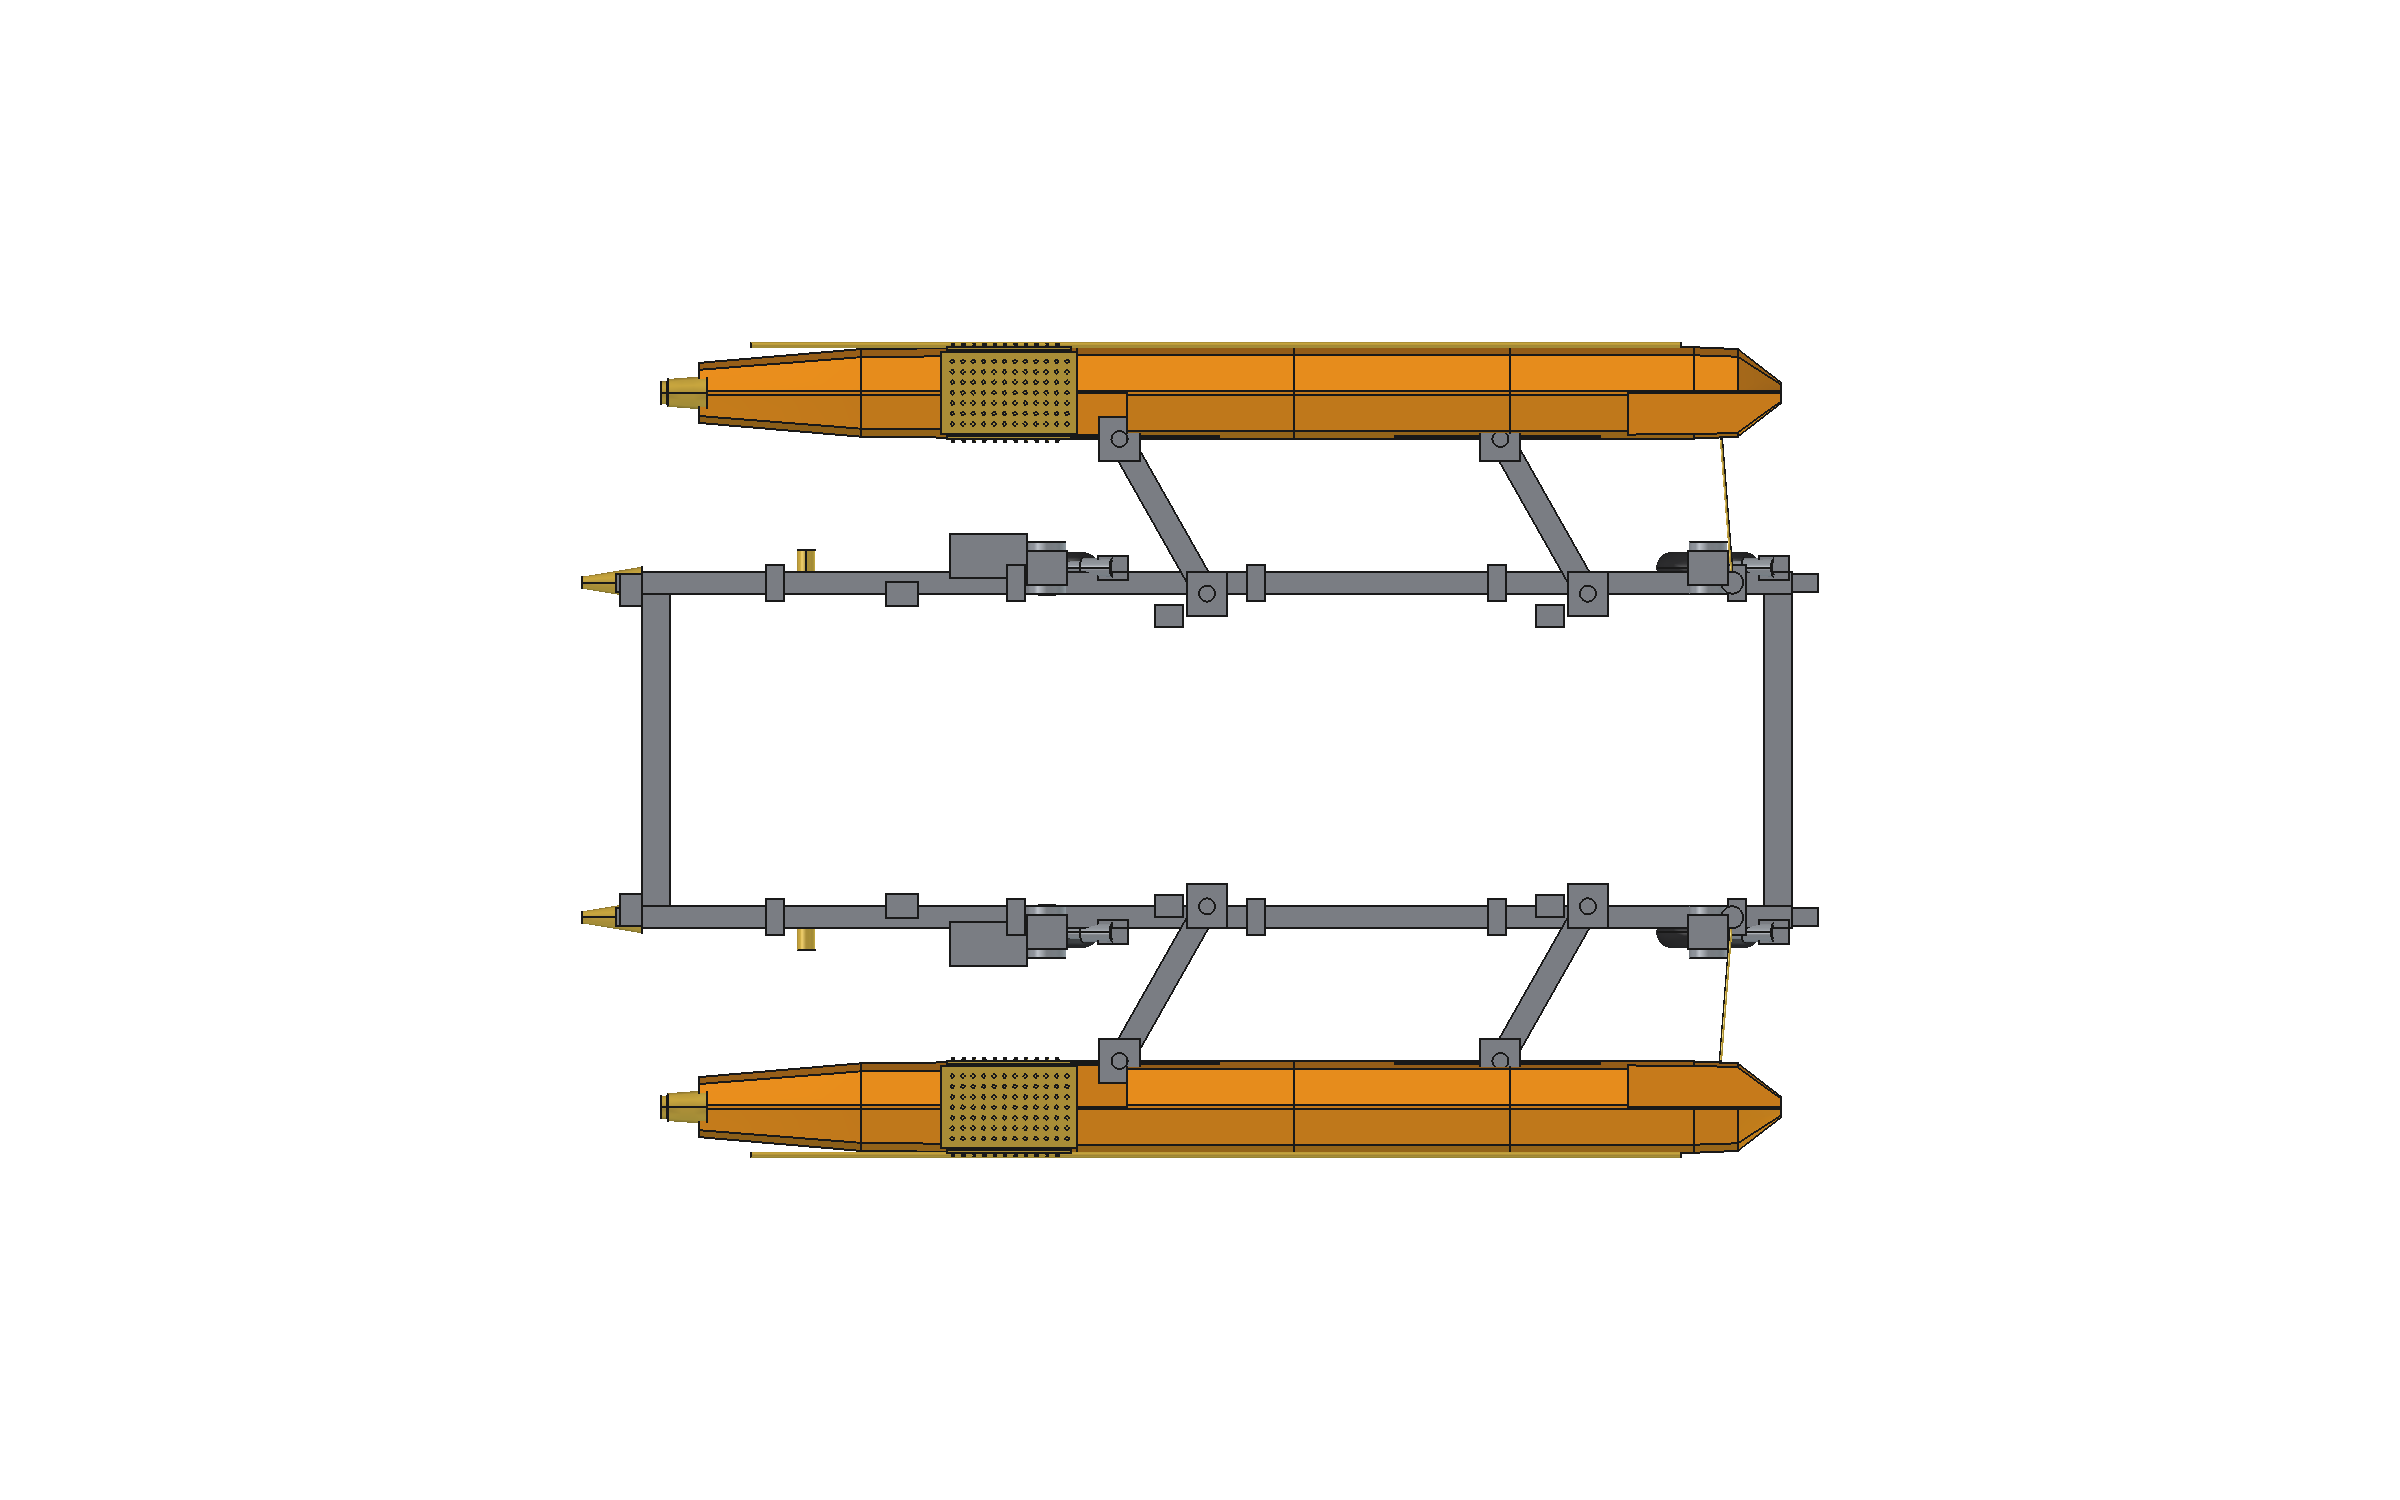
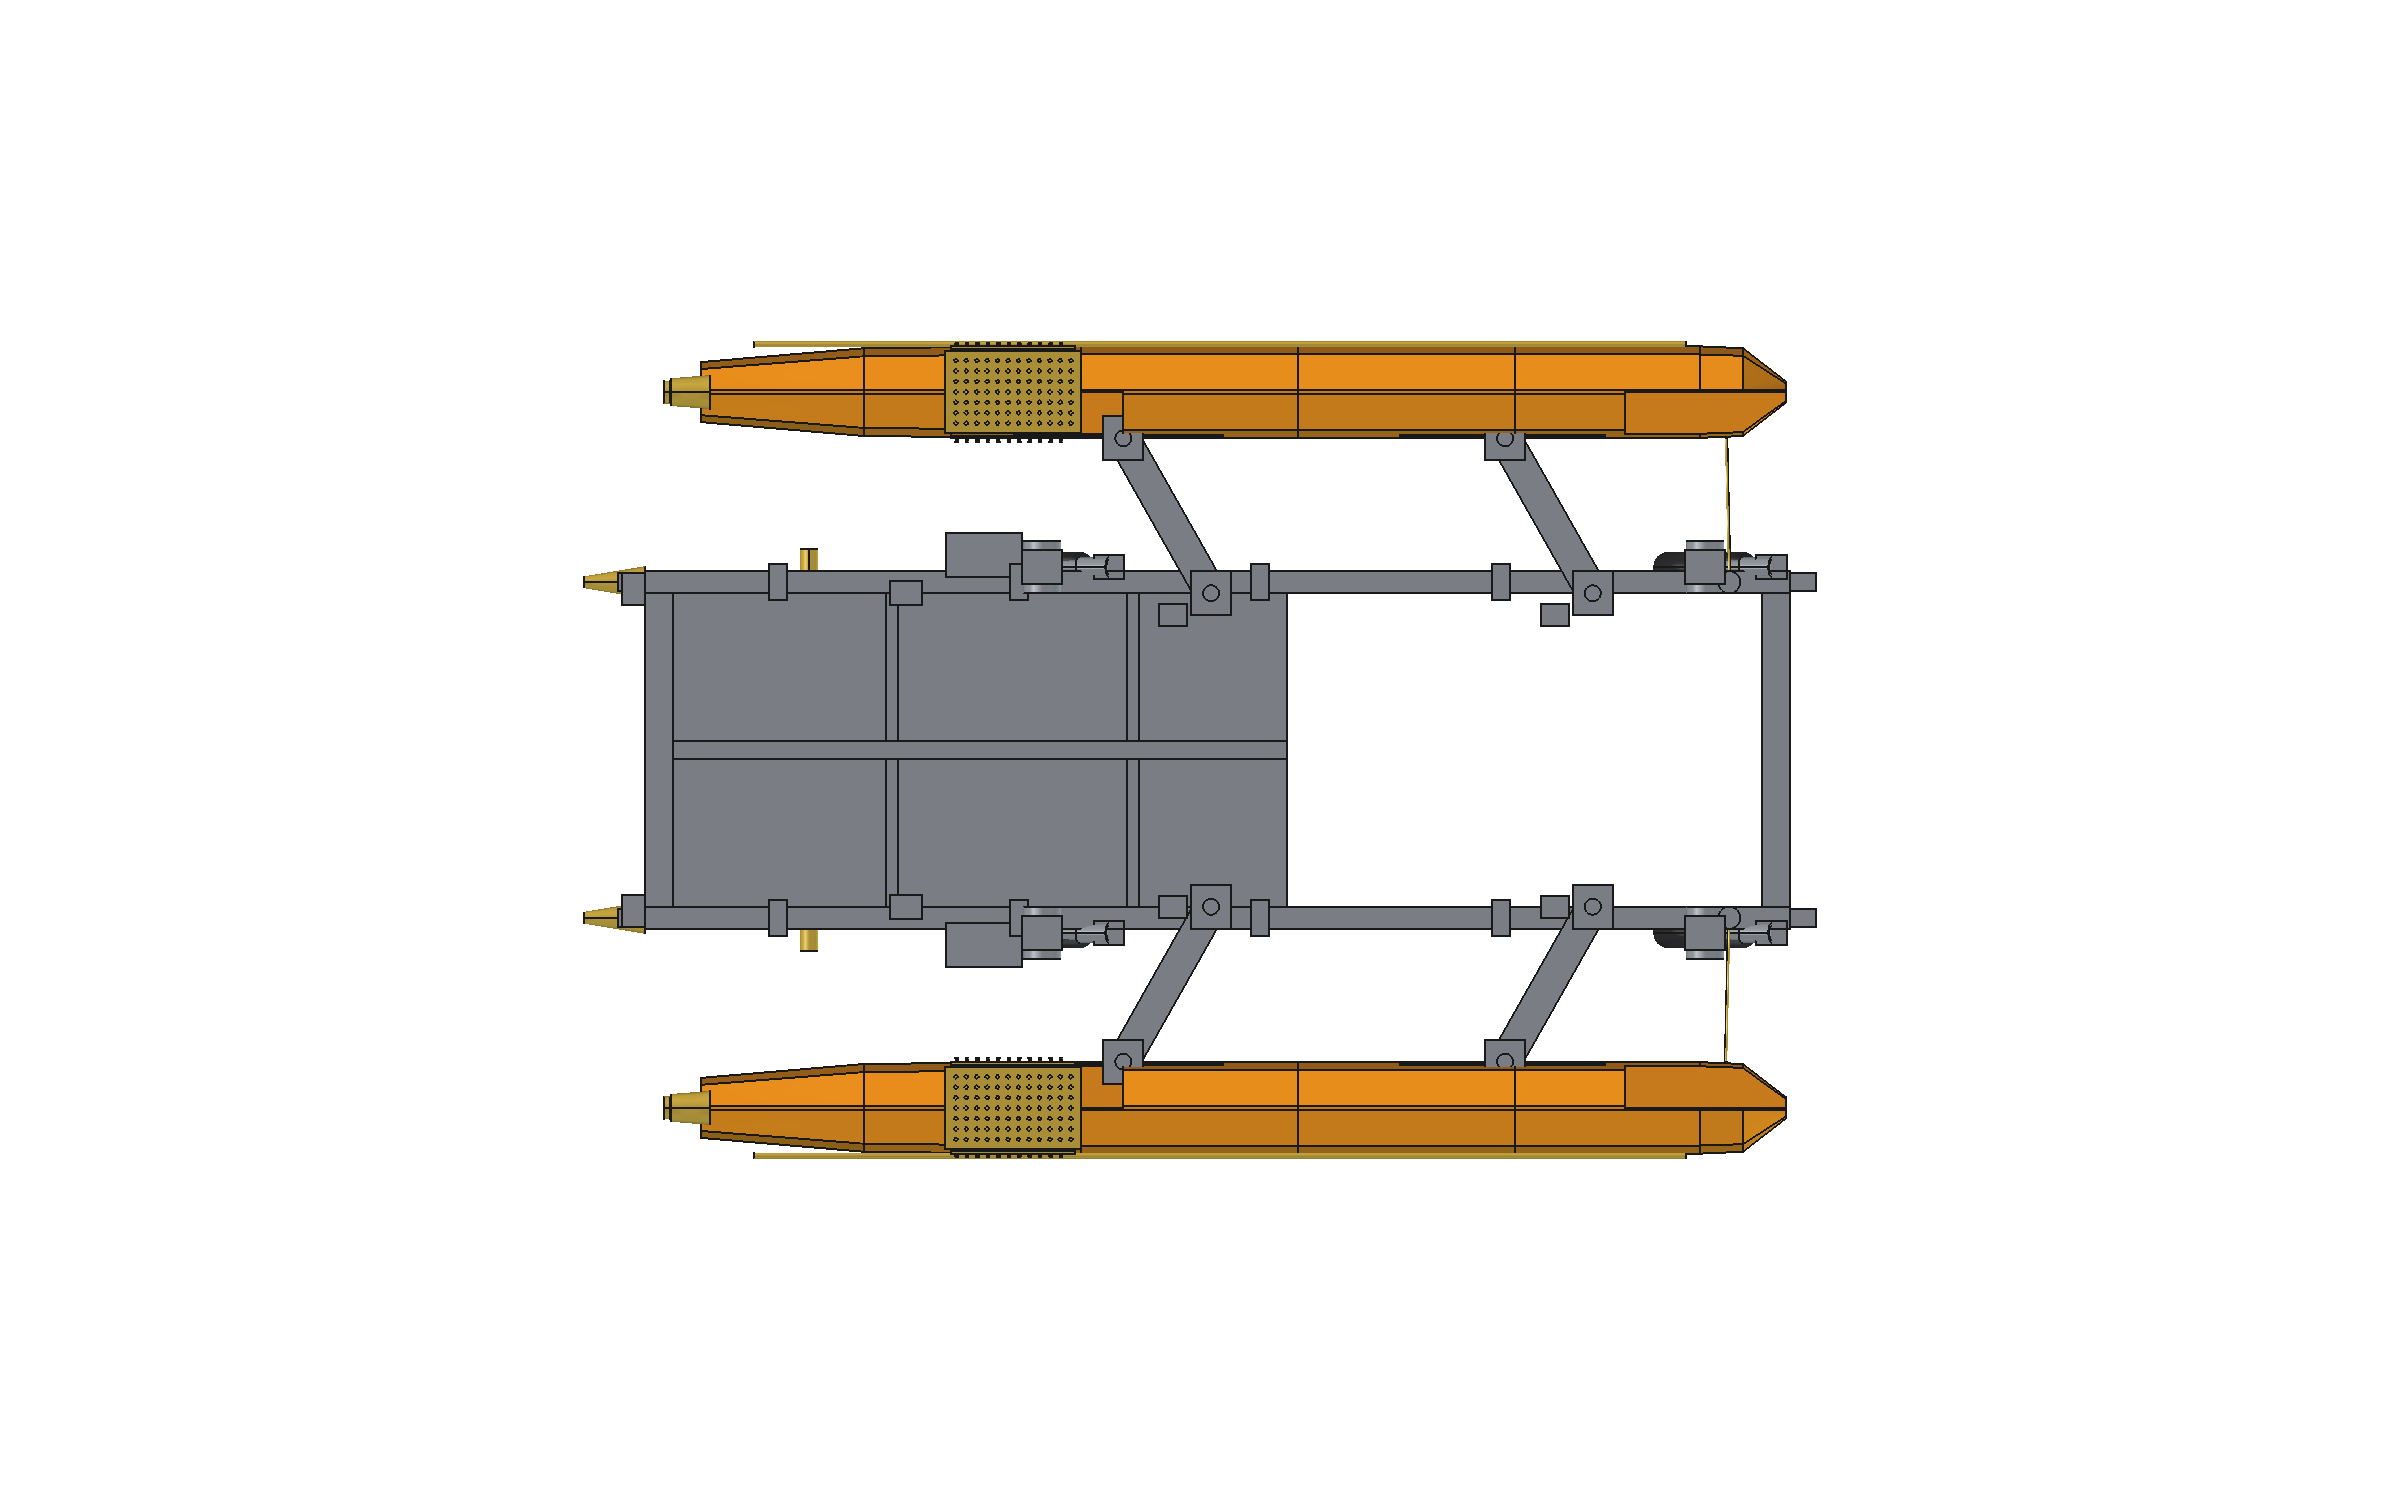
An aluminium deck on the frame, and a keel shoe on the boat
Asked for an aluminium bottom on the hangar doing two jobs: protecting
the hull underneath, and being a platform to walk on when undocked.  It
has to be two parts, and the reason is geometry rather than preference.

The frame has nothing below the hull.  The girders are at y +-835,
z 600..800 - above the stem and outboard of it - and every route from
there down to the keel is blocked.  Straight down at y 835 is the
docked float, z -110..590 from x 600 to 6000.  Inboard of that is the
stem, 1560 wide below z 600, whose face is at y 780 - exactly where the
float's inner face is, so there is no gap to thread through at all.
Forward of the float the bow goes full width: half-width 1081 at z 300
by x 5600.  What is left is 720 mm of a 5700 mm frame, at the stern,
and a 5 m cantilever off that is not structure.  Hanging it off the
floats is out because the floats move.

So: THE DECK, 3.2 x 1.78 m of 3 mm 5083 tread plate in two panels, on
the frame between the girders at z 800, with a centreline stringer so
neither panel cantilevers 890 mm off its girder.  Undocked it is the
platform, 760 mm above the dinghy's waterline; docked it lifts out,
because at z 800 between the girders is the inside of the boat.  76 kg.
The full frame length would be 134 - plate is the whole cost of a deck
- and 3.2 m is already more standing room than a tender needs.

And THE KEEL SHOE, 3 mm 5083 bolted flat on the stem's 1560 mm bottom
[…]

Changed region(s): [[0.25, 0.2147, 0.75, 0.7973], [0.2812, 0.2453, 0.3125, 0.276]]

diff --git a/freecad/params.py b/freecad/params.py
@@ -288,6 +288,83 @@ BEAM_H = 220                       # over the waterline, top flush under
                                    # the wing at 600
 
 
+# ---- THE HANGAR FLOOR ----
+# An aluminium floor on the frame, between the girders. Undocked it is
+# the deck people stand on; it is carried entirely by the frame and
+# never touches the floats, which move.
+#
+# It CANNOT also be the hull's bottom protection, and it is worth
+# writing down why so nobody tries again. The frame has no structure
+# below the keel: the girders sit at y +-835, z 600..800, which is
+# ABOVE the stem and OUTBOARD of it. Every route from there down to the
+# keel is blocked -
+#
+#   below z 600 the stem is 1560 wide, y +-780, and the float's inner
+#   face is at y 780 too: zero gap to thread anything through
+#   at y 835 the docked float fills z -110..590 from x 600 to 6000
+#   forward of x 5600 the bow goes full width (half-width 1081 at
+#   z 300), so there is no clear drop there either
+#
+# which leaves 720 mm of a 5700 mm frame, at the stern, as the only
+# place a leg could reach the water. A 5 m cantilever off that is not
+# structure, it is a wish.
+#
+# So hull protection is a KEEL SHOE bolted to the boat (below), and the
+# floor is a deck on the frame. Two parts, because one part cannot be
+# in two places.
+DECK_T = 3                         # mm, 5083-H116 tread plate
+DECK_Z = 800                       # on top of the girders
+DECK_RIB = (60, 40, 3)
+DECK_RIB_PITCH = 1200
+DECK_STRINGER = (90, 140, 4)       # centreline beam: without it each
+                                   # panel cantilevers 890 mm off its
+                                   # girder, which 3 mm plate will not do
+
+
+DECK_L = 3200                      # NOT the full 5700 of the frame.
+                                   # Plate is the whole cost of a deck -
+                                   # full length is 134 kg against 75 -
+                                   # and 3.2 x 1.78 m is already more
+                                   # standing room than a tender needs.
+                                   # It sits at the aft end, over the
+                                   # bight, where the drawbar and the
+                                   # boarding are.
+
+
+def deck_panels():
+    """(panel width mm, length mm) - two of them, one each side of the
+    centreline, so one person and the haul rope can lift each."""
+    return (GIRDER_Y + GIRDER_SECTION[0] / 2, DECK_L)
+
+
+def deck_mass_alu():
+    """kg of both floor panels, plate plus ribs plus handles."""
+    w, l = deck_panels()
+    plate = 2 * w * l * DECK_T * 2.66e-6
+    b, h, t = DECK_RIB
+    a_rib = b * h - (b - 2 * t) * (h - 2 * t)
+    n = int(l / DECK_RIB_PITCH) + 1
+    ribs = 2 * n * a_rib * w * 2.7e-6
+    sb, sh, st = DECK_STRINGER
+    a_s = sb * sh - (sb - 2 * st) * (sh - 2 * st)
+    stringer = a_s * l * 2.7e-6
+    return (plate + ribs + stringer) * 1.10
+
+
+# ---- THE KEEL SHOE ----
+# Bolted to the BOAT, not to the hangar: a sacrificial 3 mm 5083 plate
+# on the stem's flat bottom. It is what takes slipway rash, gravel and
+# the odd rock, and it is there whether the hangar is fitted or not -
+# which is the point, because the hangar comes off.
+SHOE_T = 3
+SHOE_W = 2 * STEM_HW               # the stem's full flat, 1560
+SHOE_X = (0, 6000)                 # transom to where the bow rises
+
+
+def shoe_mass():
+    return (SHOE_X[1] - SHOE_X[0]) * SHOE_W * SHOE_T * 2.66e-6 * 1.08
+
+
 DOCK_CLEAR = 10                    # float top to the wing underside
 # The float hangs from the WING, not from the keel plane. Anchoring it
 # to the keel was fine while the float was shallower than the T step;
@@ -564,7 +641,8 @@ def hangar_mass():
     tie_m = 2 * 2 * (GIRDER_Y + GIRDER_SECTION[0] / 2) / 1000
     alu = tie_m * HANGAR_BIGHT[0] * HANGAR_BIGHT[1] * 0.15 * 2.7e-3
     alu += DRAWBAR_KG
-    return (floats + MASS_WHEELS_HUBS + swing_gear_mass() + MASS_FLIPGEAR +
+    return (floats + MASS_WHEELS_HUBS + swing_gear_mass() + deck_mass_alu() +
+            MASS_FLIPGEAR +
             MASS_HYDRAULICS + girder_mass() + alu +
             4 * LOCK_MOTOR_KG + 20)
 
@@ -1079,6 +1157,7 @@ VCG = {
     "solar curtains": 2100,                    # roof corner, z 1666..2820
     "front dome glazing": 2000,
     "waterjets": 150,                          # in the float bottoms
+    "keel shoe (alu)": 0,                      # flat on the keel, z 0
 }
 CREW_VCG = 1500               # people stand on the sole at z 620
 
@@ -1641,6 +1720,7 @@ def mass_budget():
     items["exoskeleton (steel)"] = MASS_EXOSKELETON
     items["HANGAR, complete vehicle"] = hangar_mass()
     items["waterjets"] = MASS_JETS
+    items["keel shoe (alu)"] = shoe_mass()
     items["electrics"] = MASS_ELECTRICS
     items["solar curtains"] = curtain_mass()
     items["interior (incl. 50 kWh, water)"] = sum(INT_MASS.values())

diff --git a/freecad/build_boat.py b/freecad/build_boat.py
@@ -743,6 +743,28 @@ def build_hangar(phi, coupled=True, tow="sea"):
                          (P.FLOAT_X_DOCKED - P.FLOAT_LEN / 2 + 500,
                           sy * P.STEM_HW - 60, P.BEAM_Z0 + 40)))
 
+    # ---- THE FLOOR. Aluminium deck panels between the girders, on
+    # the frame and only on the frame: the floats move, so nothing here
+    # touches them. Undocked this is what people stand on; docked it
+    # lifts out, because at z 800 between the girders is the inside of
+    # the boat.
+    #
+    # It is NOT the hull's bottom protection - the frame has nothing
+    # below the keel to hang a plate from. That job belongs to the keel
+    # shoe on the boat. See the note in params.
+    dw, dl = P.deck_panels()
+    sb, sh, _st = P.DECK_STRINGER
+    parts.append(box(dl, sb, sh, (P.GIRDER_X0, -sb / 2, P.DECK_Z - sh)))
+    if phi > 0:                     # laid only when the boat is off
+        for sy in (-1, 1):
+            parts.append(box(dl, dw, P.DECK_T,
+                             (P.GIRDER_X0, 0 if sy > 0 else -dw, P.DECK_Z)))
+            rb, rh, _rt = P.DECK_RIB
+            for k in range(int(dl / P.DECK_RIB_PITCH) + 1):
+                parts.append(box(rb, dw, rh,
+                                 (P.GIRDER_X0 + k * P.DECK_RIB_PITCH,
+                                  0 if sy > 0 else -dw, P.DECK_Z - rh)))
+
     # ---- THE BIGHT AND THE FORWARD TIE. Two girders on their own are
     # two rails; what makes them a frame is a transverse tie at each
     # end. Both sit at girder level in the wing channel, so neither is

diff --git a/docs/hangar.md b/docs/hangar.md
@@ -72,3 +72,41 @@ at the girder.
   above z 600, but the heads floor and the tank bays need a layout pass.
 - The stem quarters near the transom want fairing into the jets' inflow.
 - Spike rail wear pads and the bayonet preload need detailing.
+
+
+## 7. The floor, and why it is two parts
+
+Asked for an aluminium bottom on the hangar that would both protect the
+hull underneath and be a platform to walk on when undocked. It has to
+be **two parts**, because one part cannot be in two places — and the
+reason is worth writing down.
+
+**The frame has no structure below the hull.** The girders sit at
+y ±835, z 600 … 800 — *above* the stem and *outboard* of it. Every
+route from there down to the keel is blocked:
+
+| Route | Blocked by |
+|---|---|
+| straight down at y ±835 | the docked float, z −110…590, x 600 … 6 000 |
+| inboard of that | the stem: 1 560 mm wide below z 600, and its face is at y 780 — the same y as the float's inner face, so there is **zero gap** to thread through |
+| forward, past the float's bow | the hull goes full width from x 5 600 (half-width 1 081 at z 300) |
+
+That leaves 720 mm of a 5 700 mm frame, at the stern, as the only place
+a leg could reach the water. A 5 m cantilever off that is not
+structure. And hanging the plate off the **floats** is out — they move.
+
+So:
+
+- **The deck** — 3.2 × 1.78 m of 3 mm 5083 tread plate in two panels,
+  on the frame between the girders at z 800, with a centreline
+  stringer so neither panel cantilevers off its girder. Undocked it is
+  what people stand on, 760 mm above the dinghy's waterline. Docked it
+  lifts out, because at z 800 between the girders is the inside of the
+  boat. **76 kg.** Full frame length would be 134 — plate is the whole
+  cost of a deck, and 3.2 m is already more standing room than a tender
+  needs.
+- **The keel shoe** — 3 mm 5083 bolted flat on the stem's 1 560 mm
+  bottom, transom to x 6 000. Sacrificial: it takes slipway rash,
+  gravel and the odd rock. **81 kg**, and it belongs to the *boat*, not
+  the hangar, which is the point — the hangar comes off and the
+  protection stays.
